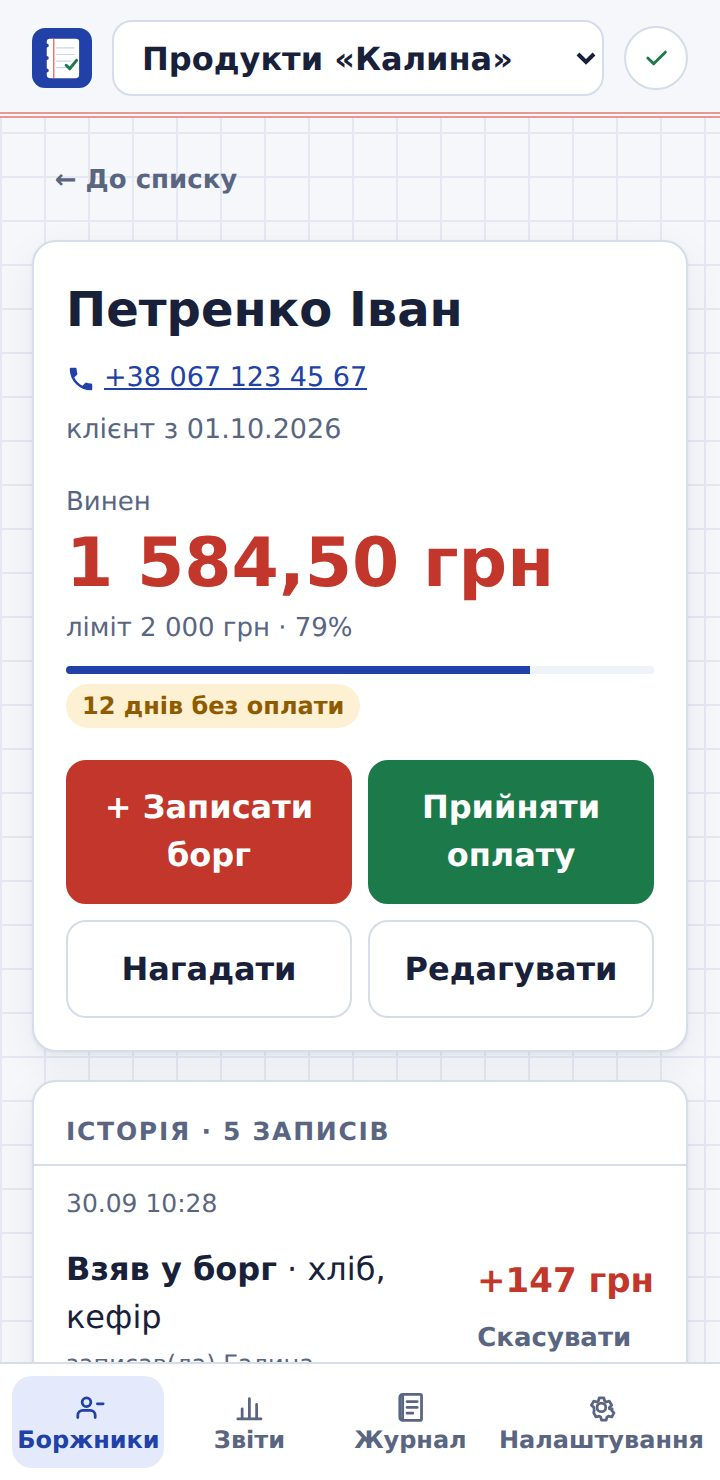
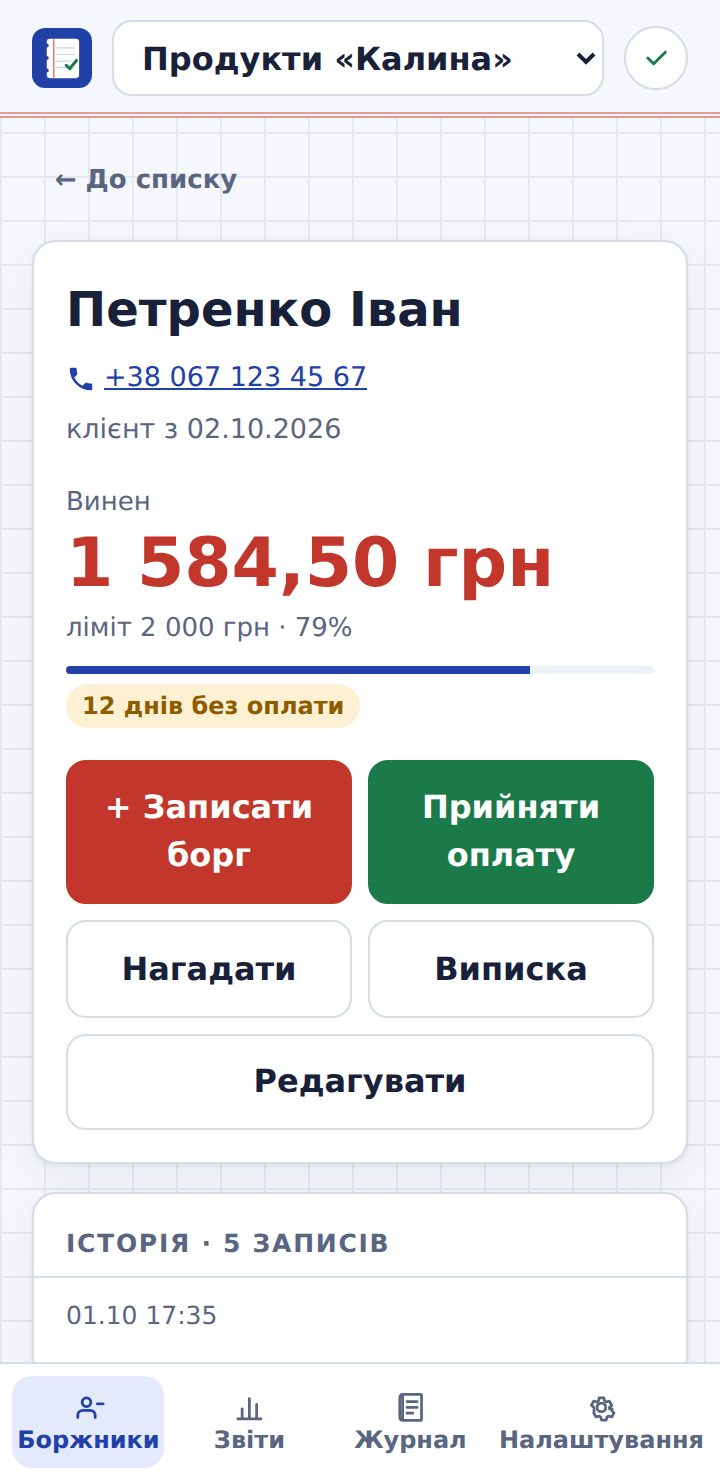
Add files via upload

Changed region(s): [[0.0306, 0.6216, 0.9472, 0.9014], [0.6722, 0.8392, 0.9167, 0.9324], [0.275, 0.2797, 0.3056, 0.3108]]

diff --git a/index.html b/index.html
@@ -5,7 +5,7 @@
 <meta name="viewport" content="width=device-width, initial-scale=1">
 <title>Зошит боржників — облік боргів покупців для магазину в телефоні</title>
 <meta name="description" content="Електронний зошит боргів для сільського магазину: хто скільки винен, ліміти, продавці, нагадування у Viber. Працює без інтернету. 30 днів безкоштовно, далі 149 грн на місяць.">
-<link rel="canonical" href="https://andriy27032000-ux.github.io/">
+<link rel="canonical" href="https://vborg.com.ua/">
 <meta name="robots" content="index, follow, max-image-preview:large">
 <meta name="theme-color" content="#2140a8">
 <meta name="color-scheme" content="light">
@@ -16,19 +16,19 @@
 <meta property="og:site_name" content="Зошит боржників">
 <meta property="og:title" content="Зошит боргів для магазину — у телефоні">
 <meta property="og:description" content="Хто скільки винен — завжди під рукою. Ліміти, продавці, нагадування у Viber, робота без інтернету. 30 днів безкоштовно.">
-<meta property="og:url" content="https://andriy27032000-ux.github.io/">
-<meta property="og:image" content="https://andriy27032000-ux.github.io/og.png">
+<meta property="og:url" content="https://vborg.com.ua/">
+<meta property="og:image" content="https://vborg.com.ua/og.png">
 <meta property="og:image:width" content="1200">
 <meta property="og:image:height" content="630">
 <meta property="og:image:alt" content="Зошит боржників — облік боргів покупців у телефоні">
 <meta name="twitter:card" content="summary_large_image">
 <meta name="twitter:title" content="Зошит боргів для магазину — у телефоні">
 <meta name="twitter:description" content="Хто скільки винен — завжди під рукою. 30 днів безкоштовно.">
-<meta name="twitter:image" content="https://andriy27032000-ux.github.io/og.png">
+<meta name="twitter:image" content="https://vborg.com.ua/og.png">
 <link rel="icon" href="icon.svg" type="image/svg+xml">
 <link rel="icon" href="icon-192.png" type="image/png" sizes="192x192">
 <link rel="apple-touch-icon" href="apple-touch-icon.png">
-<script type="application/ld+json">[{"@context":"https://schema.org","@type":"SoftwareApplication","name":"Зошит боржників","url":"https://andriy27032000-ux.github.io/","applicationCategory":"BusinessApplication","operatingSystem":"Android, iOS, Windows, macOS (у браузері)","inLanguage":"uk","description":"Облік боргів покупців для магазину: ліміти, продавці, нагадування у Viber, робота без інтернету.","image":"https://andriy27032000-ux.github.io/og.png","offers":{"@type":"Offer","price":"149","priceCurrency":"UAH","category":"subscription"}},{"@context":"https://schema.org","@type":"FAQPage","mainEntity":[{"@type":"Question","name":"Чи треба щось встановлювати?","acceptedAnswer":{"@type":"Answer","text":"Ні. Програма відкривається в браузері на телефоні чи комп’ютері. За бажанням її можна додати на головний екран телефона — тоді вона відкривається як звичайний застосунок."}},{"@type":"Question","name":"Що буде, якщо пропаде інтернет?","acceptedAnswer":{"@type":"Answer","text":"Записуйте далі: записи зберігаються на телефоні й відправляться самі, щойно з’явиться зв’язок. Двічі нічого не запишеться."}},{"@type":"Question","name":"Що можуть продавці?","acceptedAnswer":{"@type":"Answer","text":"Продавець записує борги й оплати, але не може змінювати ліміти, редагувати покупців чи керувати працівниками. Біля кожного запису видно, хто з продавців його зробив."}},{"@type":"Question","name":"Чи можна видалити запис?","acceptedAnswer":{"@type":"Answer","text":"Ні, лише скасувати з причиною. Скасований запис лишається в історії закресленим — так нічого не зникає непомітно."}},{"@type":"Question","name":"Що буде після пробного періоду?","acceptedAnswer":{"@type":"Answer","text":"Якщо не оплатите, програма перейде в режим перегляду: нові записи робити не можна, але всі дані лишаються — їх можна переглянути й вивантажити в Excel."}},{"@type":"Question","name":"Як оплатити?","acceptedAnswer":{"@type":"Answer","text":"Карткою або переказом. Реквізити — у програмі, в розділі «Підписка». Можна платити помісячно або одразу за рік зі знижкою."}},{"@type":"Question","name":"Хто бачить дані моїх покупців?","acceptedAnswer":{"@type":"Answer","text":"Лише ви і ваші продавці. Дані передаються захищеним з’єднанням, кожен магазин має окремий доступ, а сервіс не передає їх третім особам і не показує рекламу."}},{"@type":"Question","name":"Скільки покупців можна вести?","acceptedAnswer":{"@type":"Answer","text":"Скільки завгодно — програма розрахована на тисячі покупців і швидко працює навіть на простому телефоні."}},{"@type":"Question","name":"Можна вести кілька магазинів?","acceptedAnswer":{"@type":"Answer","text":"Так, в одному акаунті: перемикаєтесь між магазинами одним дотиком. Оплата — окремо за кожен магазин."}}]}]</script>
+<script type="application/ld+json">[{"@context":"https://schema.org","@type":"SoftwareApplication","name":"Зошит боржників","url":"https://vborg.com.ua/","applicationCategory":"BusinessApplication","operatingSystem":"Android, iOS, Windows, macOS (у браузері)","inLanguage":"uk","description":"Облік боргів покупців для магазину: ліміти, продавці, нагадування у Viber, робота без інтернету.","image":"https://vborg.com.ua/og.png","offers":{"@type":"Offer","price":"149","priceCurrency":"UAH","category":"subscription"}},{"@context":"https://schema.org","@type":"FAQPage","mainEntity":[{"@type":"Question","name":"Чи треба щось встановлювати?","acceptedAnswer":{"@type":"Answer","text":"Ні. Програма відкривається в браузері на телефоні чи комп’ютері. За бажанням її можна додати на головний екран телефона — тоді вона відкривається як звичайний застосунок."}},{"@type":"Question","name":"Що буде, якщо пропаде інтернет?","acceptedAnswer":{"@type":"Answer","text":"Записуйте далі: записи зберігаються на телефоні й відправляться самі, щойно з’явиться зв’язок. Двічі нічого не запишеться."}},{"@type":"Question","name":"Що можуть продавці?","acceptedAnswer":{"@type":"Answer","text":"Продавець записує борги й оплати, але не може змінювати ліміти, редагувати покупців чи керувати працівниками. Біля кожного запису видно, хто з продавців його зробив."}},{"@type":"Question","name":"Чи можна видалити запис?","acceptedAnswer":{"@type":"Answer","text":"Ні, лише скасувати з причиною. Скасований запис лишається в історії закресленим — так нічого не зникає непомітно."}},{"@type":"Question","name":"Що буде після пробного періоду?","acceptedAnswer":{"@type":"Answer","text":"Якщо не оплатите, програма перейде в режим перегляду: нові записи робити не можна, але всі дані лишаються — їх можна переглянути й вивантажити в Excel."}},{"@type":"Question","name":"Як оплатити?","acceptedAnswer":{"@type":"Answer","text":"Карткою або переказом. Реквізити — у програмі, в розділі «Підписка». Можна платити помісячно або одразу за рік зі знижкою."}},{"@type":"Question","name":"Хто бачить дані моїх покупців?","acceptedAnswer":{"@type":"Answer","text":"Лише ви і ваші продавці. Дані передаються захищеним з’єднанням, кожен магазин має окремий доступ, а сервіс не передає їх третім особам і не показує рекламу."}},{"@type":"Question","name":"Скільки покупців можна вести?","acceptedAnswer":{"@type":"Answer","text":"Скільки завгодно — програма розрахована на тисячі покупців і швидко працює навіть на простому телефоні."}},{"@type":"Question","name":"Можна вести кілька магазинів?","acceptedAnswer":{"@type":"Answer","text":"Так, в одному акаунті: перемикаєтесь між магазинами одним дотиком. Оплата — окремо за кожен магазин."}}]}]</script>
 <style>
 :root {
   --ink: #2140a8; --ink-2: #18307f; --ink-soft: #e6ecfb;
